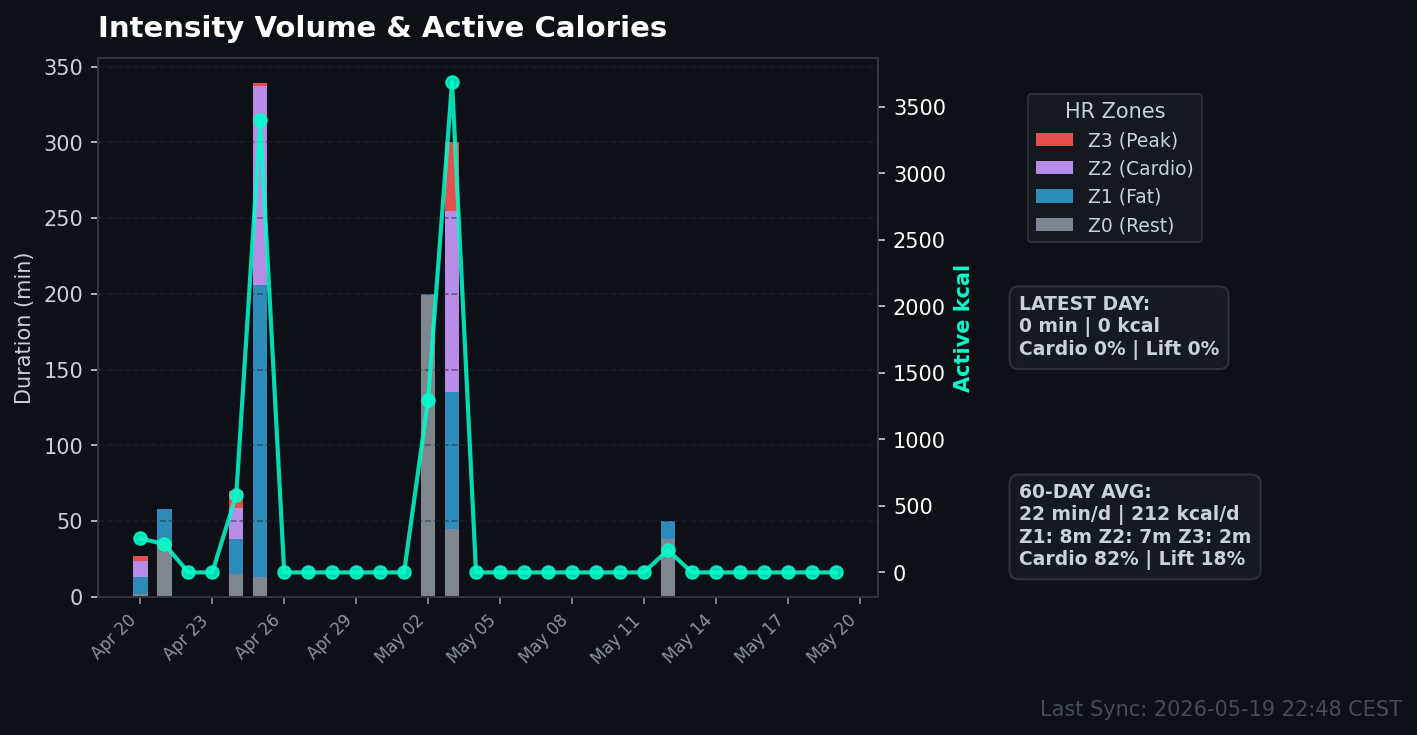
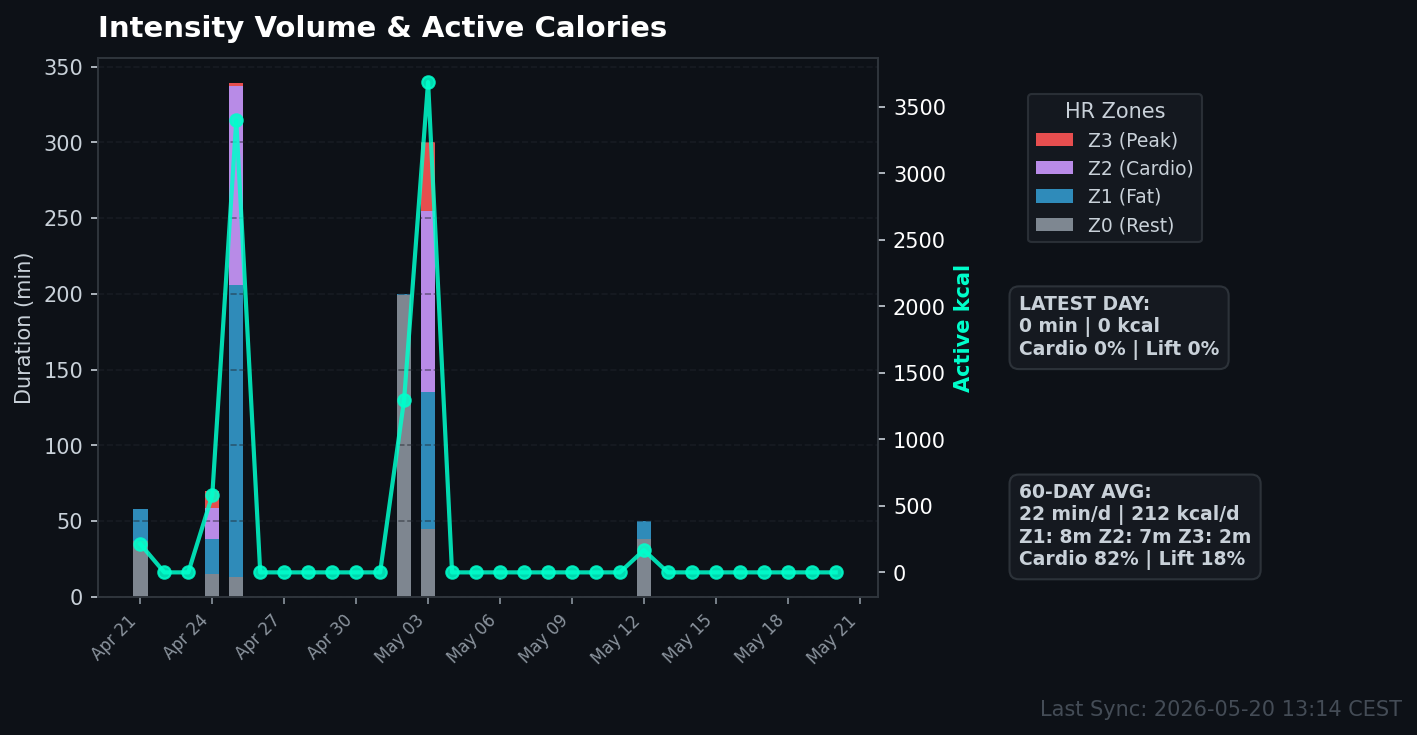
Update Public Dashboards Wed May 20 11:14:35 UTC 2026

diff --git a/sports_table.html b/sports_table.html
@@ -15,7 +15,7 @@
             <td style="padding: 8px 4px; text-align: left; color: var(--lcars-cyan); line-height: 1.2;">May 12<br><span style="color: var(--lcars-orange);">09:58</span></td>
             <td style="padding: 8px 4px; text-align: left; vertical-align: top;">
                 <span style="font-weight: bold; color: var(--lcars-peach);">GYM</span><br>
-                <div style="font-size: 12px; color: #bbb; text-transform: none; line-height: 1.3; margin-top: 3px; font-weight: normal;">The gym session had a remarkably low average heart rate for a 50-minute workout, suggesting a very low intensity or long rest periods. Good sleep quality on the day points to solid recovery, allowing for potentially higher intensity in future sessions.</div>
+                <div style="font-size: 12px; color: #bbb; text-transform: none; line-height: 1.3; margin-top: 3px; font-weight: normal;">A mixed intensity gym session with decent lifts for pecs, but the low average HR (87 BPM) and zero time in elevated HR zones suggest a very low cardiovascular stimulus or long rest periods. Recovery metrics from prior sleep were generally good, despite low REM.</div>
             </td>
             <td style="padding: 8px 4px; text-align: right; vertical-align: top; font-weight: bold;">50m</td>
             <td style="padding: 8px 4px; text-align: right; vertical-align: top; font-weight: bold;">236 <br><span style="color:var(--lcars-cyan); font-size: 12px; font-weight: normal;">NET: 167</span></td>